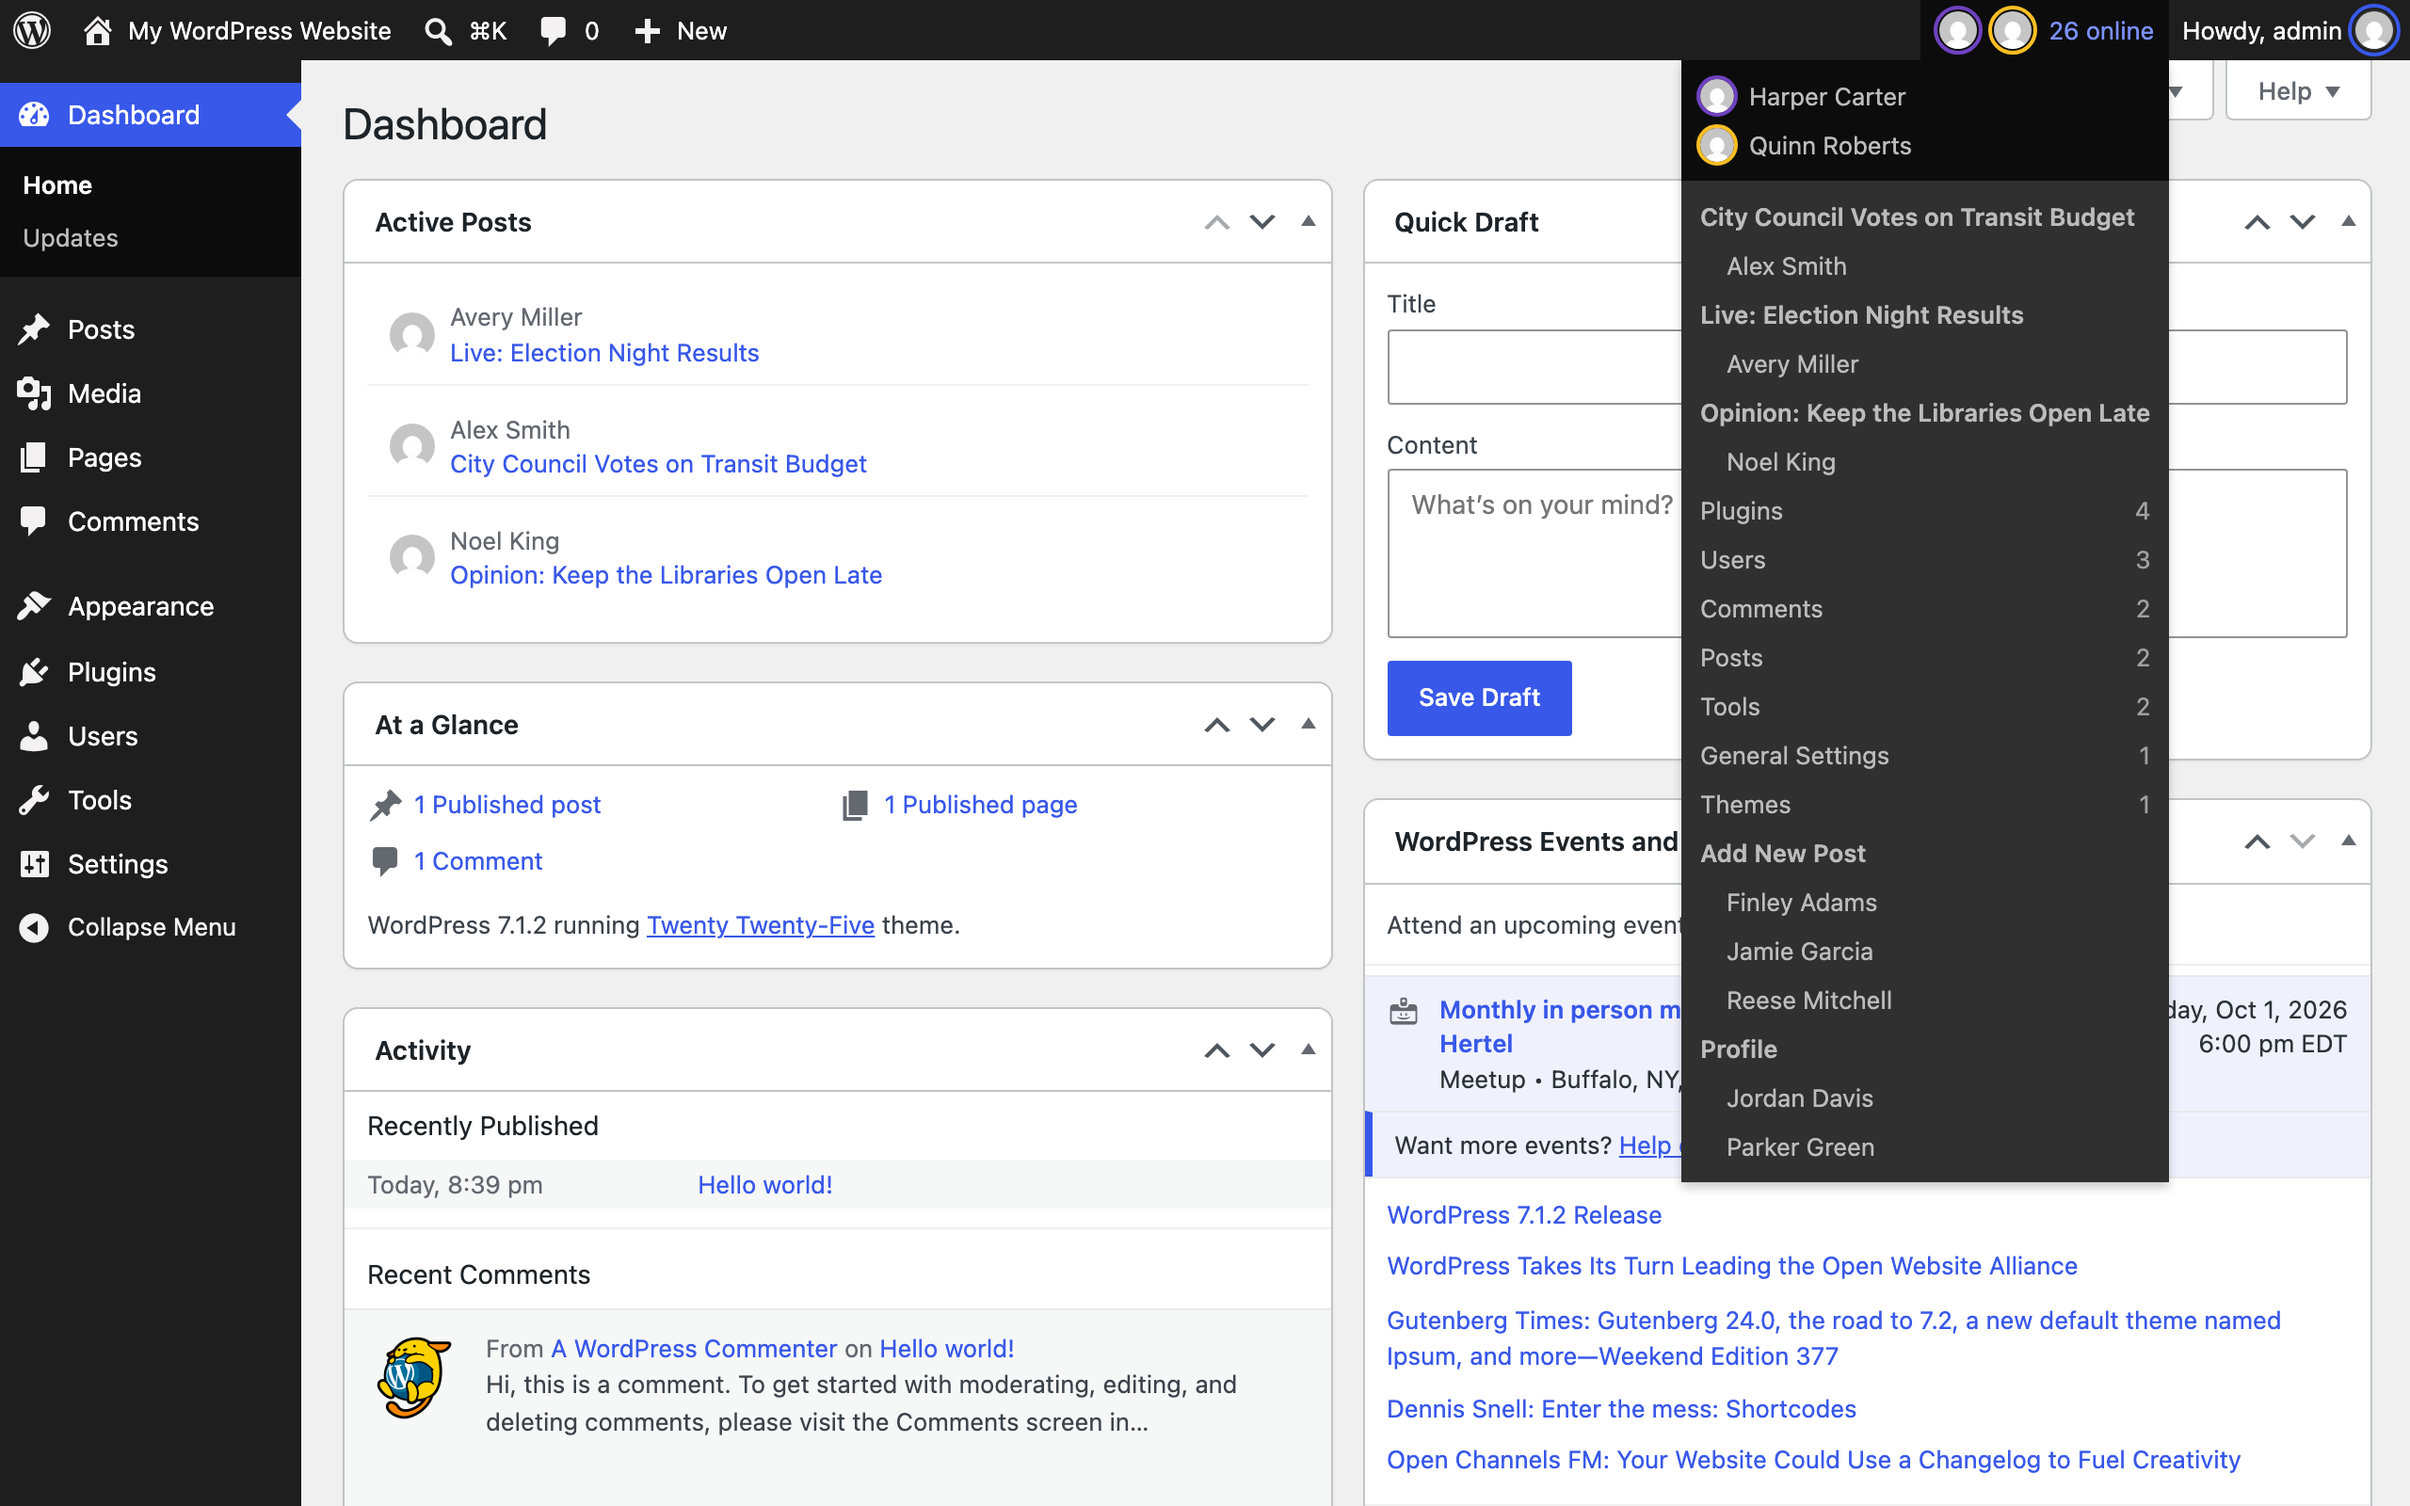
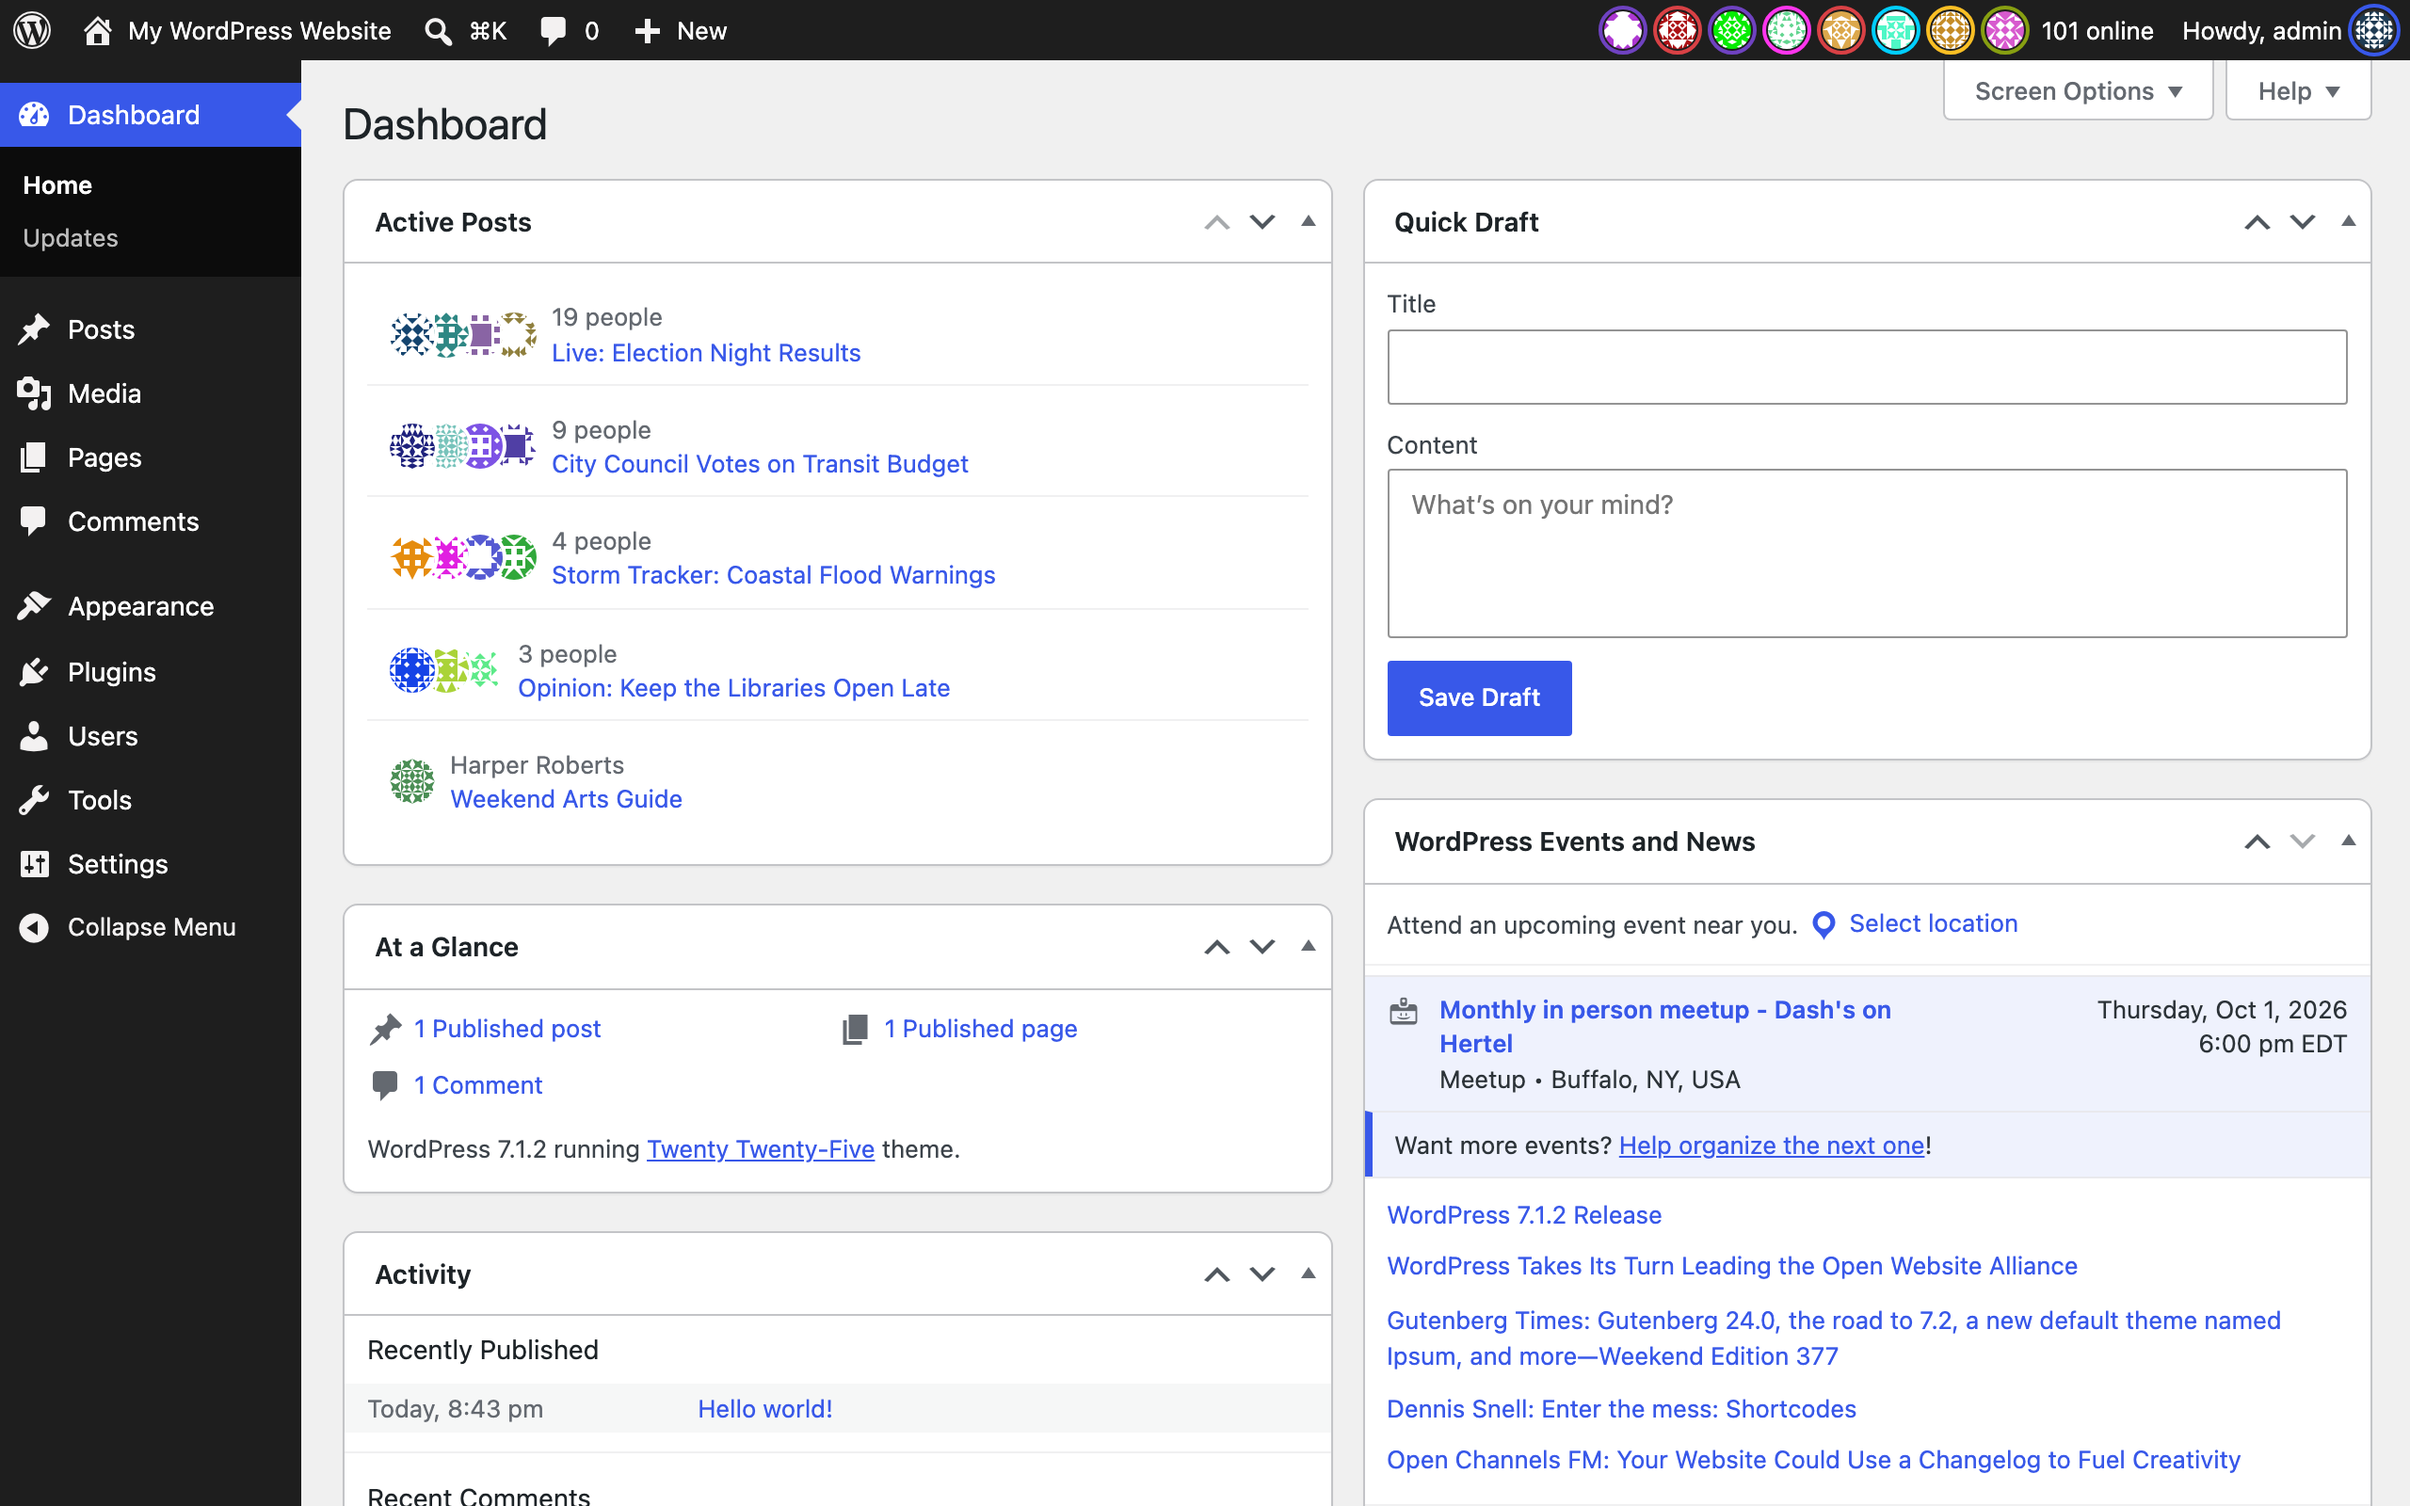
docs: shoot the README screenshot from the 100-user Playground

diff --git a/README.md b/README.md
@@ -4,7 +4,7 @@
 
 A feature plugin for system-wide presence and awareness in WordPress.
 
-![The dashboard with the admin bar's presence menu open, listing who is online and where](.wordpress-org/screenshot-1.png)
+![The dashboard with 100 people online: faces in the admin bar and Active Posts showing who is editing which story](.wordpress-org/screenshot-1.png)
 
 > [!IMPORTANT]
 > **Built for the lowest common denominator of environments.** No object cache, no WebSockets, no extra services — a dedicated table with a TTL is the only moving part. Anything a managed host offers on top is a bonus, never a dependency.
